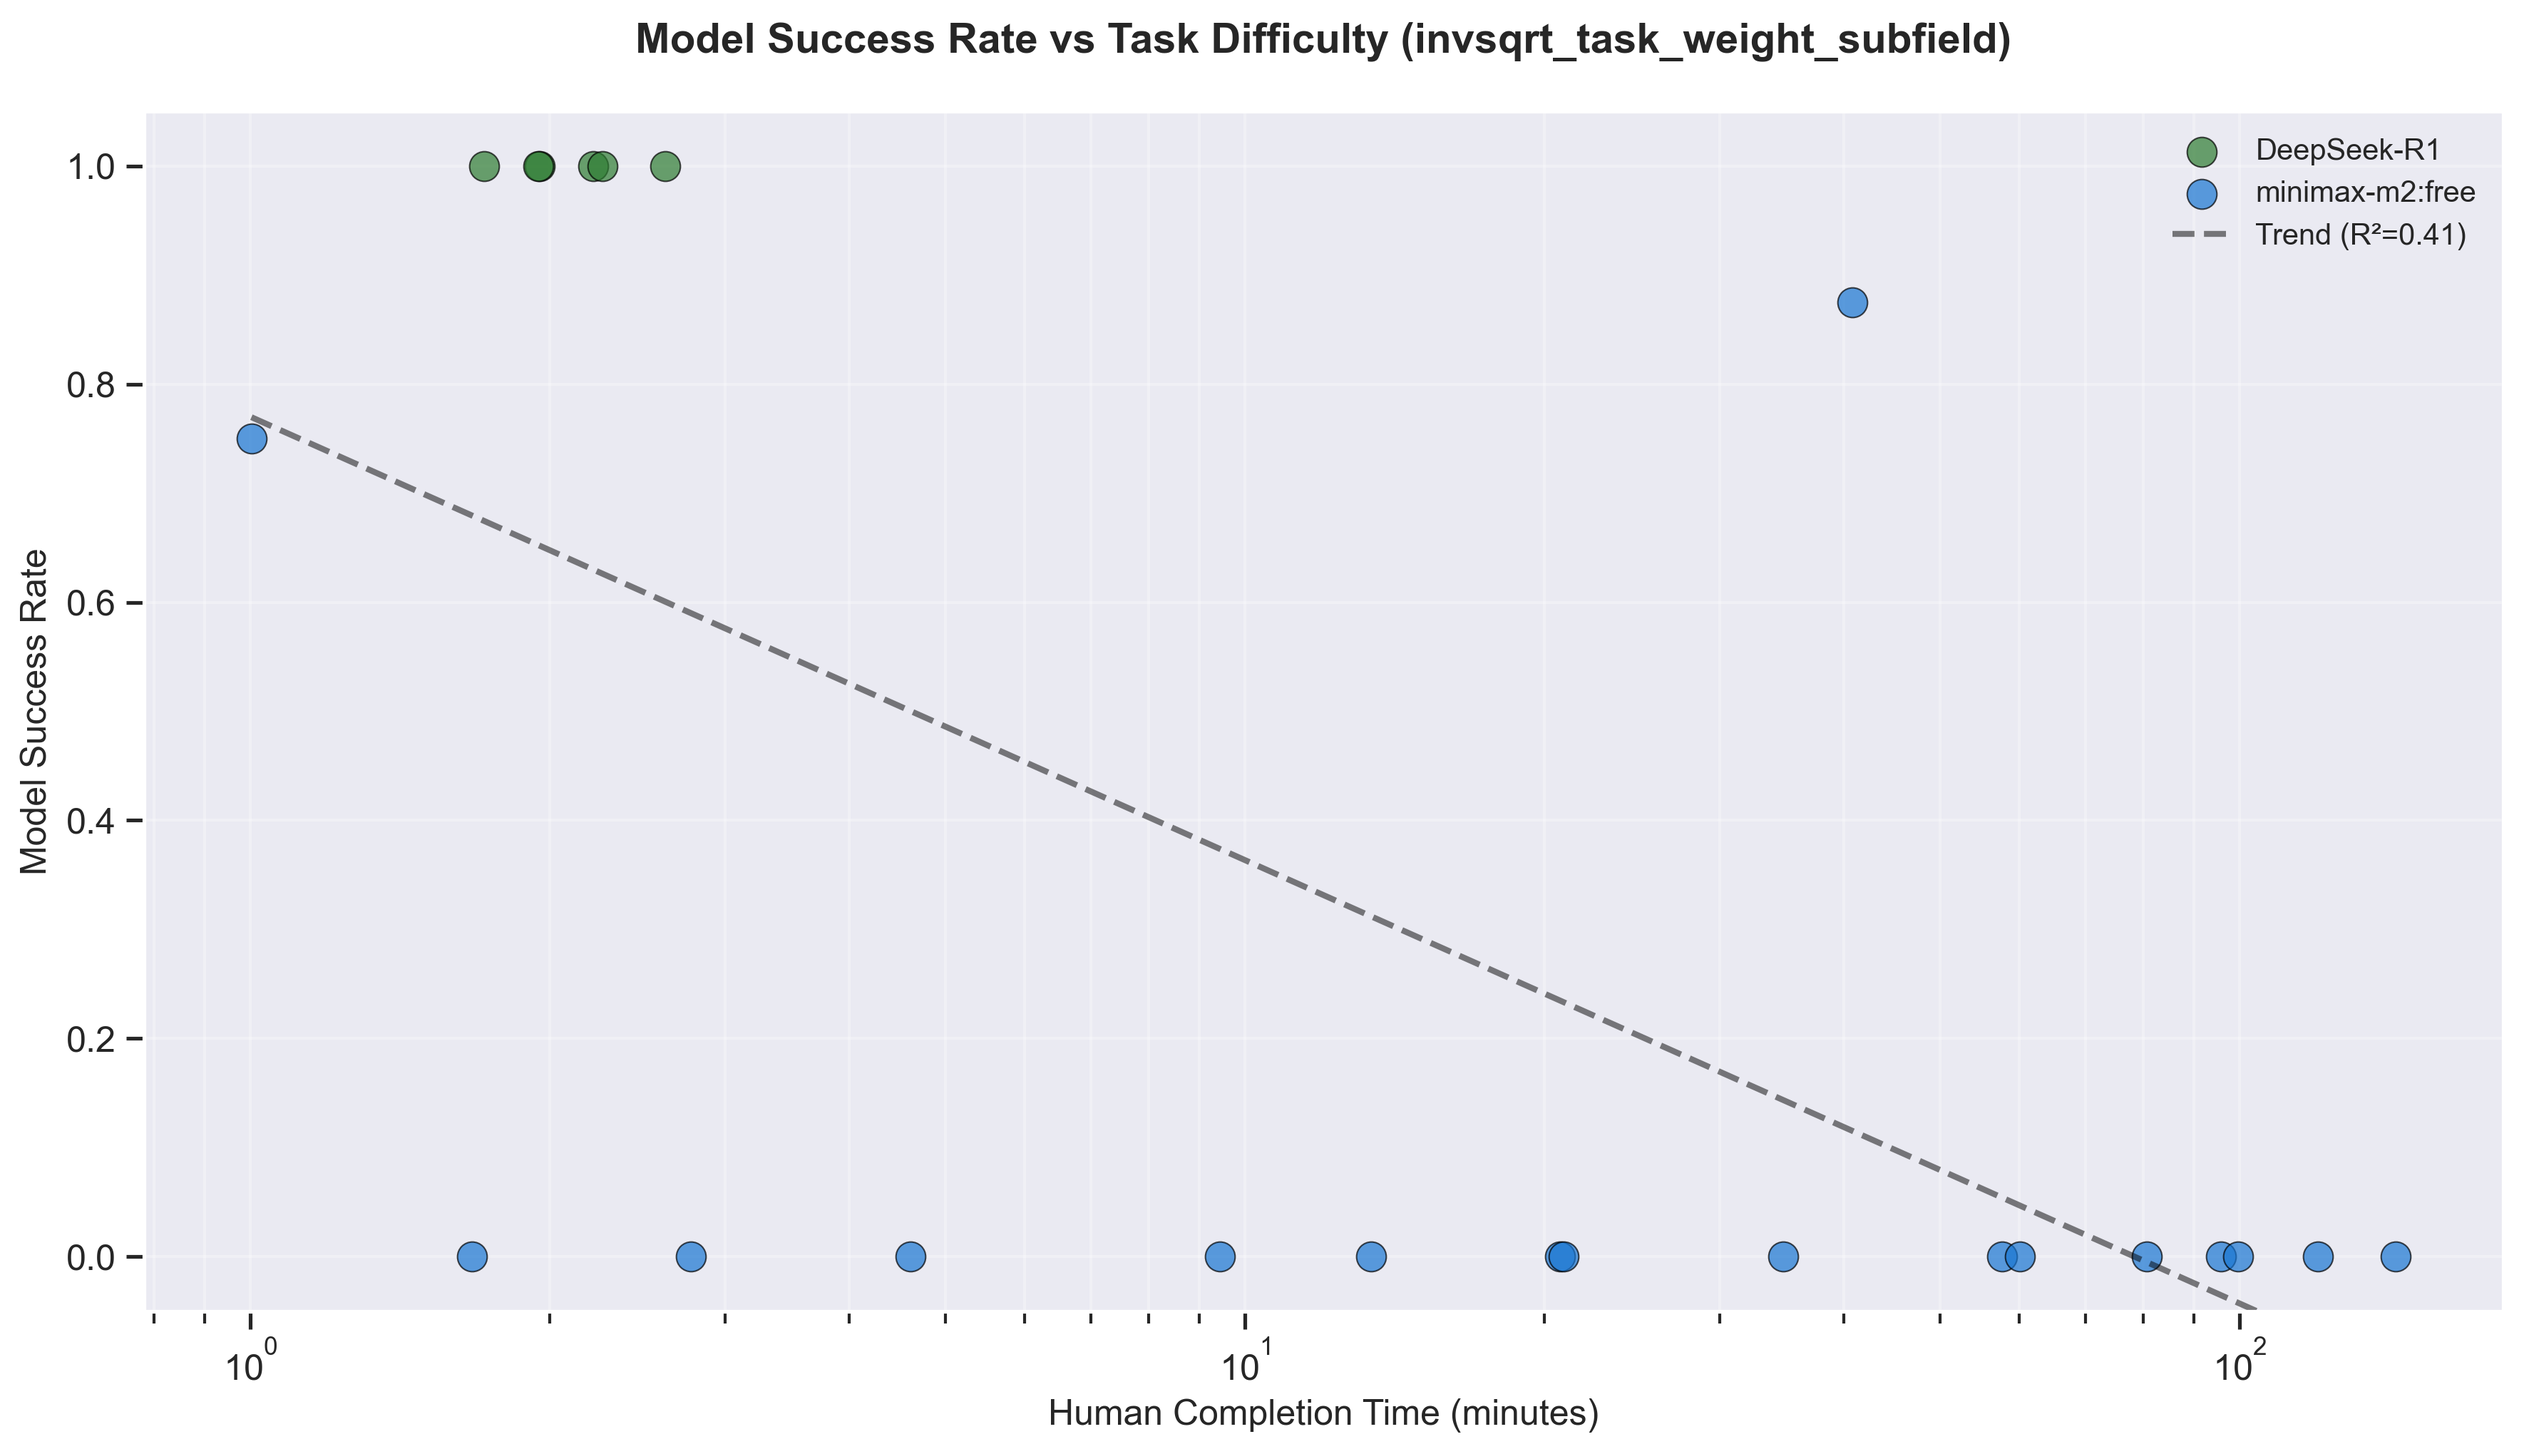
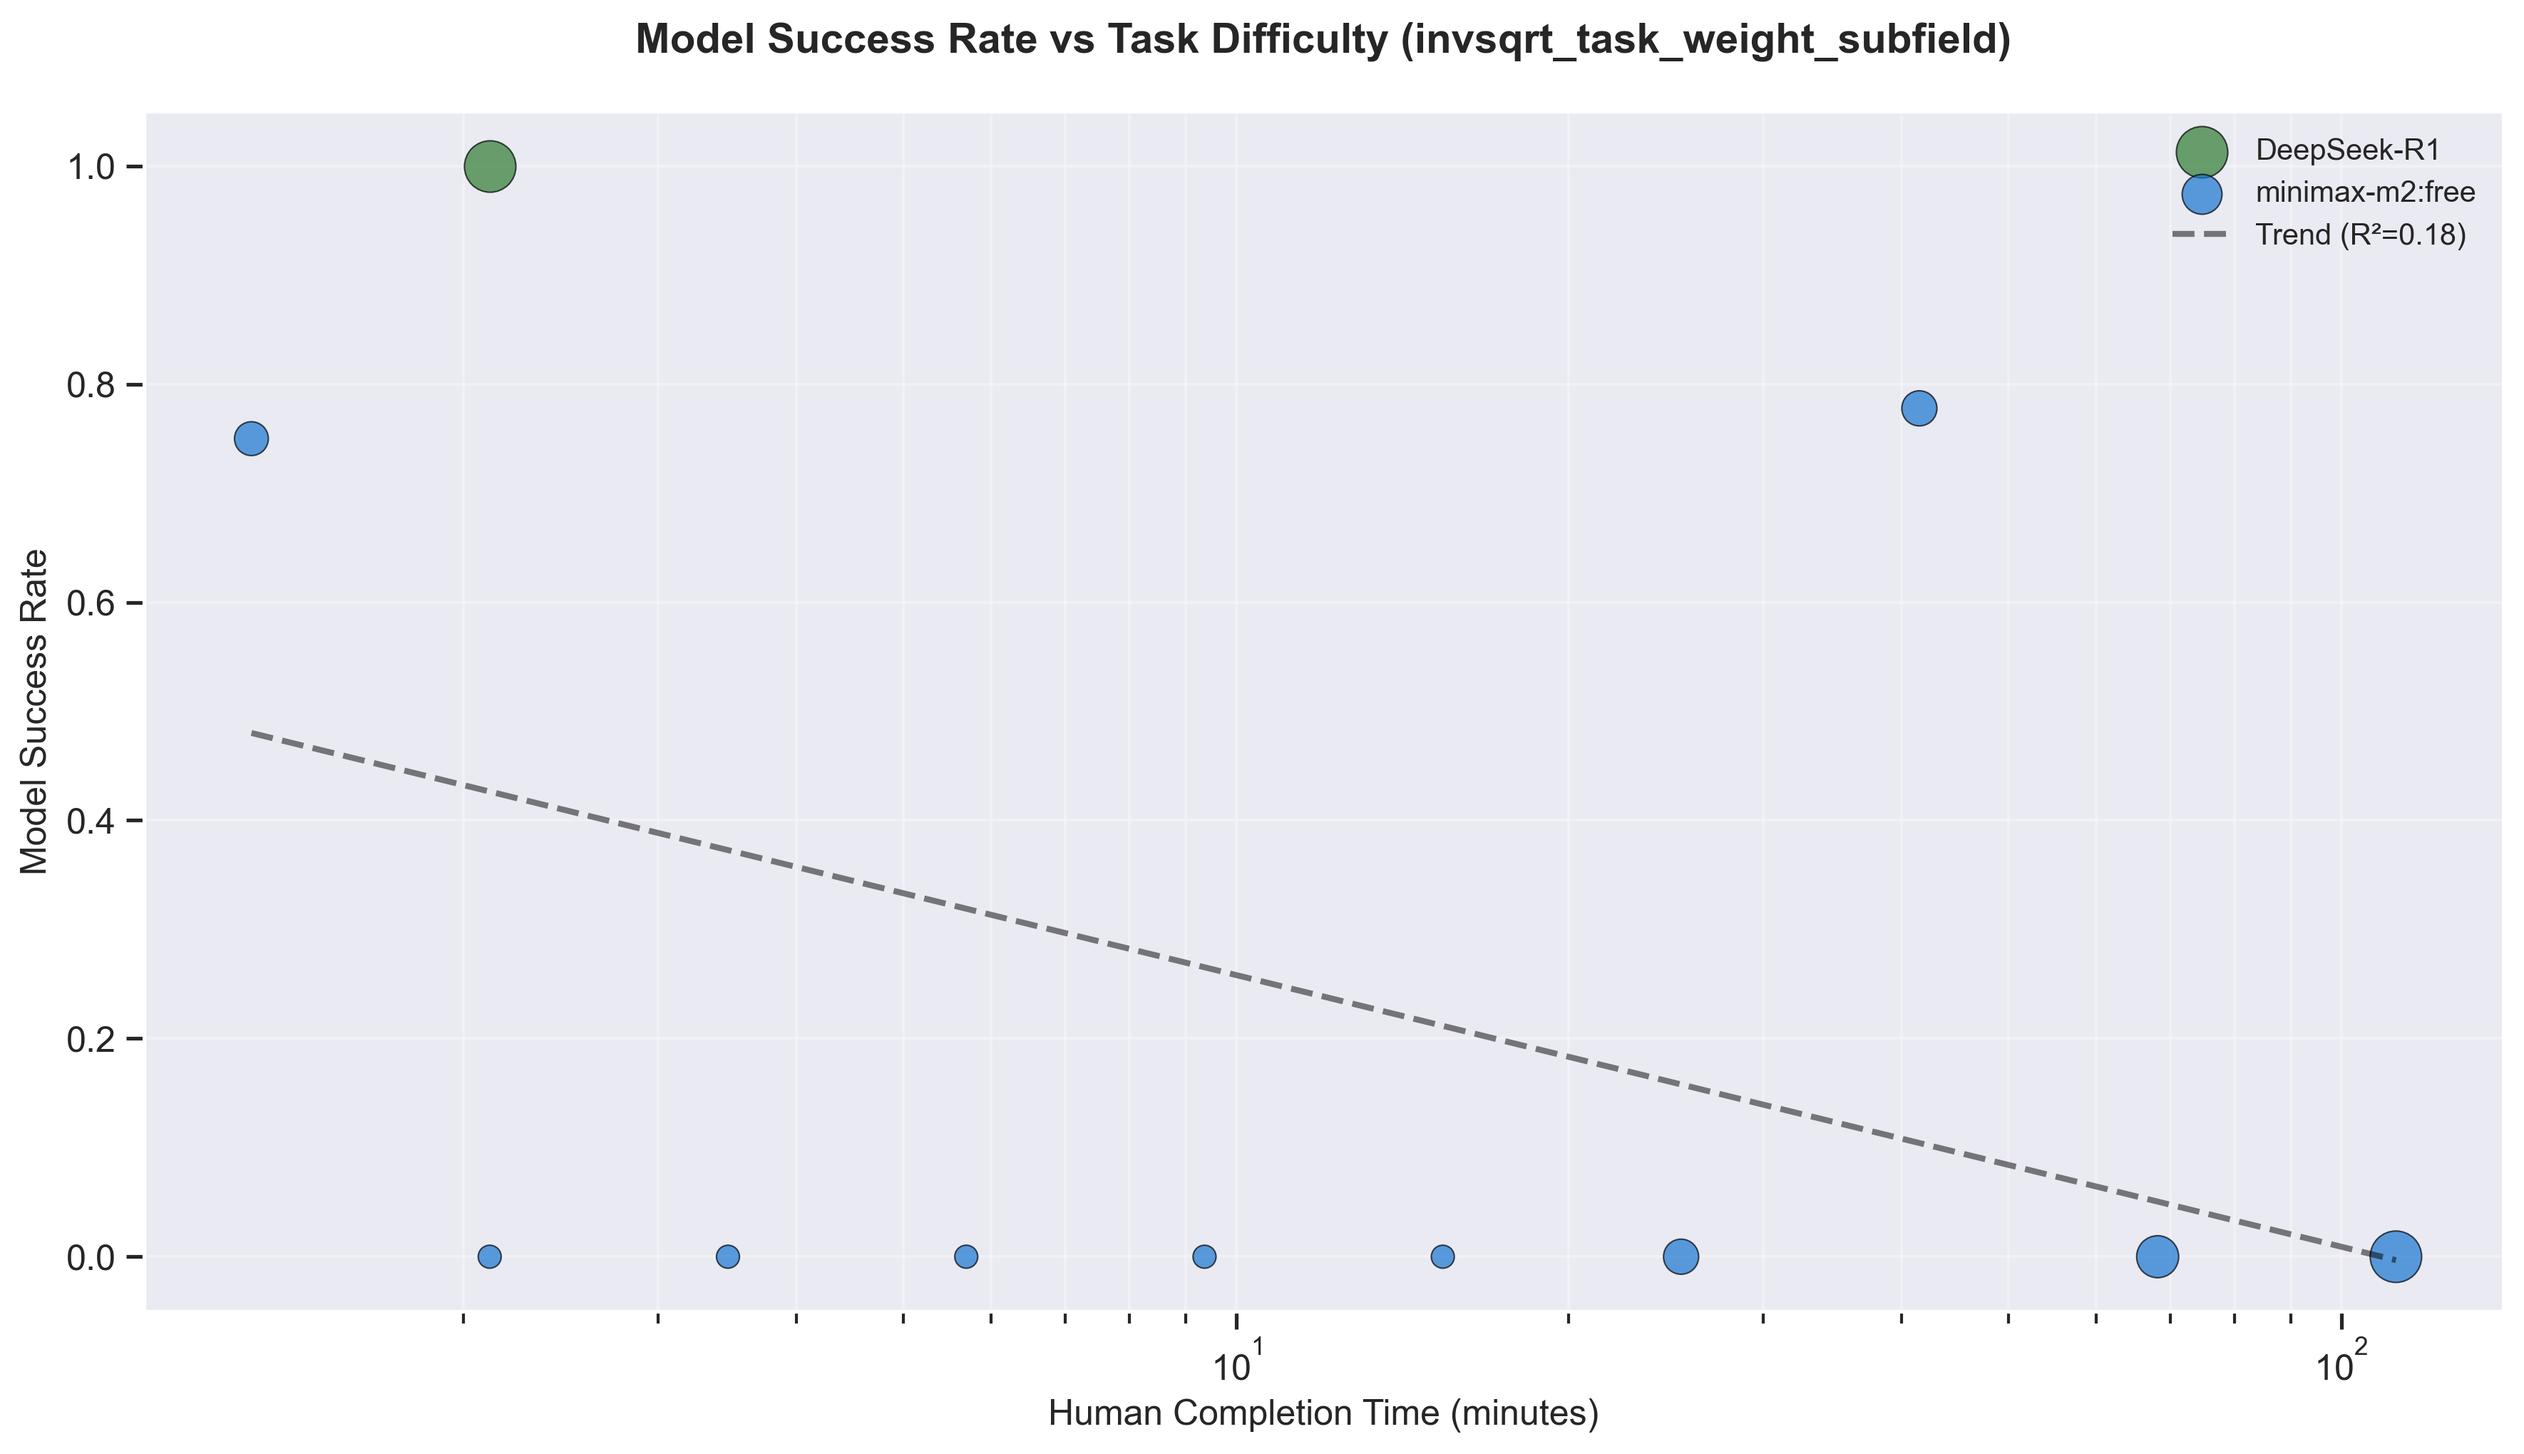
log bins for human time in plots

diff --git a/math_olympiad_analysis/src/utils/plots.py b/math_olympiad_analysis/src/utils/plots.py
@@ -86,7 +86,8 @@ class MathOlympiadPlotter:
         model_col: str = 'alias',
         title: str = "Model Success Rate vs Task Difficulty",
         show_trend: bool = True,
-        log_scale: bool = True
+        log_scale: bool = True,
+        n_bins: int = 10
     ) -> Figure:
 
         fig, ax = plt.subplots(figsize=(12, 7), dpi=100)
@@ -96,35 +97,66 @@ class MathOlympiadPlotter:
         models = sorted([m for m in df_filtered[model_col].unique() 
                         if m != 'Failed' and m != 'Unknown'])
         
-        # Plot each model
+
+        task_times = df_filtered.groupby('task_id')[time_col].first()
+        
+        min_time = max(task_times.min(), 0.1)
+        max_time = task_times.max()
+        log_bins = np.logspace(np.log10(min_time), np.log10(max_time), n_bins + 1)
+        
+        # Assign each task to a bin
+        task_bin_map = {}
+        for task_id, time in task_times.items():
+            bin_idx = np.digitize(time, log_bins) - 1
+            bin_idx = max(0, min(bin_idx, n_bins - 1))  # Clamp to valid range
+            task_bin_map[task_id] = bin_idx
+        
+
+        df_filtered['bin_idx'] = df_filtered['task_id'].map(task_bin_map)
+        
+        bin_centers = np.sqrt(log_bins[:-1] * log_bins[1:])
+        
         for model in models:
             model_df = df_filtered[df_filtered[model_col] == model]
             
-            # Aggregate by task
-            task_stats = model_df.groupby('task_id').agg({
-                time_col: 'first',
-                success_col: 'mean'
-            }).reset_index()
+            #average success rate per bin
+            bin_success_rates = []
+            bin_positions = []
+            bin_counts = []
             
-            # Get color
-            color = self.model_colors.get(model, '#757575')
+            for bin_idx in range(n_bins):
+                bin_data = model_df[model_df['bin_idx'] == bin_idx]
+                if len(bin_data) > 0:
+                    success_rate = bin_data[success_col].mean()
+                    bin_success_rates.append(success_rate)
+                    bin_positions.append(bin_centers[bin_idx])
+                    bin_counts.append(len(bin_data))
             
-            # Plot with larger markers
-            ax.scatter(task_stats[time_col], task_stats[success_col], 
-                      label=model, alpha=0.7, s=100, color=color, 
-                      edgecolors='black', linewidth=0.5)
+            if len(bin_positions) > 0:
+
+                color = self.model_colors.get(model, '#757575')
+                
+                sizes = np.array(bin_counts)
+                sizes = 50 + (sizes / sizes.max()) * 250
+                
+                ax.scatter(bin_positions, bin_success_rates, 
+                          label=model, alpha=0.7, s=sizes, color=color, 
+                          edgecolors='black', linewidth=0.5)
         
-        # Add trend line for all data
         if show_trend and len(df_filtered) > 5:
-            task_stats_all = df_filtered.groupby('task_id').agg({
-                time_col: 'first',
-                success_col: 'mean'
-            }).reset_index()
+            all_bin_success = []
+            all_bin_positions = []
             
-            times = task_stats_all[time_col].values
-            success = task_stats_all[success_col].values
+            for bin_idx in range(n_bins):
+                bin_data = df_filtered[df_filtered['bin_idx'] == bin_idx]
+                if len(bin_data) > 0:
+                    all_bin_success.append(bin_data[success_col].mean())
+                    all_bin_positions.append(bin_centers[bin_idx])
             
-            if len(np.unique(times)) > 1:
+            if len(all_bin_positions) > 1:
+                times = np.array(all_bin_positions)
+                success = np.array(all_bin_success)
+                
                 if log_scale:
                     log_times = np.log10(times)
                     slope, intercept, r_value, _, _ = stats.linregress(log_times, success)
